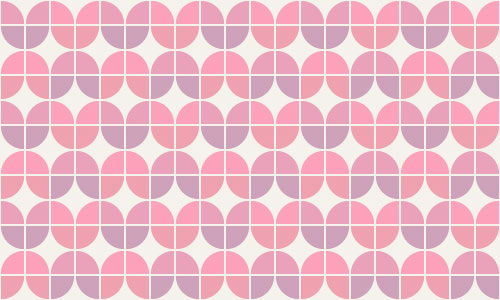
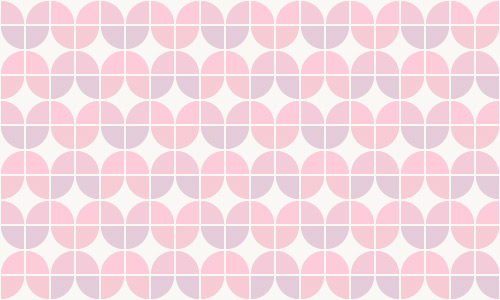
EDITED

diff --git a/styleguide.html b/styleguide.html
@@ -2,70 +2,66 @@
 <html>
   <head>
     <meta charset="utf-8">
-    <title>Style Guide Template</title>
+    <title>Tinytree Fondant Studio</title>
     <link href="css/styleguide.css" rel="stylesheet">
-    <link href='http://fonts.googleapis.com/css?family=Lato:100,400' rel='stylesheet' type='text/css'>
-    <link href='http://fonts.googleapis.com/css?family=Playball' rel='stylesheet' type='text/css'>
+    <link href="css/grid.css" rel="stylesheet">
+
+  
   </head>
   <body>
-    <h1>Tiny Tree Cake Factory Style Guide</h1>
+    <h1>Tinytree Style Guide</h1>
     <p>This is the title font.</p>
-    <nav>
-      Go to:
-      <a href="#buttons">Buttons</a>
-      <a href="#navis">Navigations</a>
-      <a href="#items">Items</a>
-      <a href="#items">Logo</a>
+    <section id="navigation">
+       <h2>Navigation Style</h2>
+      <h3>CSS selector:</h3>
+      <p>'nav'</p>
+      <h3>Sample code:</h3>
+      <code>&lt;nav&gt;&lt;div class="col-1of4"&gt;&lt;a href="#navigation"&gt; navigation&lt;/a&gt;&lt;/div&gt;&lt;/nav&gt;</code>
+      <h3>Rendered element:</h3>
+
+      <nav>
+      <div class="col-1of4">
+      <a href="#navigation" >navigation style</a>
+    </div>
+      <div class="col-1of4">
+      <a href="#buttons">buttons style</a>
+    </div>
+    <div class="col-1of4">
+      <a href="#items">items style</a>
+      </div>
+        <div class="col-1of4">
+      <a href="#logo">logo style</a>
+    </div>
     </nav>
+  </section>
     <!-- Try to ensure that each element has its own portion of the page -->
     <section id="buttons">
       <h2>Button Style</h2>
       <h3>CSS selector:</h3>
       <p>'a.button'</p>
       <h3>Sample code:</h3>
-      <code>&lt;a href="#" class="button"&gt; CAKES&lt;/a&gt;</code>
+      <code>&lt;a href="#" class="button"&gt; Add&lt;/a&gt;</code>
       <h3>Rendered element:</h3>
-      <a class="button" href="#">Buttons</a>
-    </section>
-    <section id="navis">
-      <h2>Navigation Style</h2>
-      <h3>CSS selector:</h3>
-      <p>'a.navis'</p>
-      <h3>Sample code:</h3>
-      <code>&lt;ul&gt;&lt;li&gt;&lt;a href="#" class="button"&gt; CAKES&lt;/a&gt;</code>
-      <h3>Rendered element:</h3>
-      <ul>
-        <li>
-            <a href="#">CAKES &#9662;</a>
-            <ul>
-                <li><a href="#">Wedding</a></li>
-                <li><a href="#">Specialty</a></li>
-                <li><a href="#">Customize</a></li>
-            </ul>
-        </li>
-        <li><a href="#">ABOUT</a></li>
-        <li><a href="#">CONTACT</a></li>
-
-    </ul>
+      <a class="button" href="#">Add</a>
     </section>
     <section id="items">
       <h2>Item Style</h2>
       <h3>CSS selector:</h3>
       <p>'a.items'</p>
       <h3>Sample code:</h3>
-      <code>&lt;ul&gt;&lt;li&gt;&lt;a href="#" class="button"&gt; CAKES&lt;/a&gt;</code>
+      <code>&lt;ul&gt;&lt;li&gt;&lt;a href="#" class="button"&gt; SWEET&lt;/a&gt;</code>
       <h3>Rendered element:</h3>
-      <a class="items" href="#">Customize</a>
+      <a class="items" href="#">Sweet</a>
     </section>
       <section id="logo">
       <h2>Logo</h2>
       <h3>CSS selector:</h3>
       <p>'a.logo'</p>
       <h3>Sample code:</h3>
-      <code>&lt;a href="#" class="logo"&gt; Jessie's Cake Factory&lt;/a&gt;</code>
+      <code>&lt;a href="#" class="logo"&gt; &lt;/a&gt;</code>
       <h3>Rendered element:</h3>
 
-      <a class="logo" href="#">Jessie's Cake Factory</a>
+      <a class="logo" href="#"></a>
     </section>
   </body>
 </html>

diff --git a/css/styleguide.css b/css/styleguide.css
@@ -1,15 +1,40 @@
 
-
-body {
-  font-family: 'Playball', cursive;
-  background-color: #f2e4c2;
+  body {
+ font-family: 'Lato', sans-serif;
   padding: 2rem;
-
+  background-image:url('BG.jpg');
+  color: #7d7d7d;
 }
+nav a, nav a:visited {
 
-nav p{
+  display: inline-block;
+  color: white;
+  padding: 1em;
+  font-size: 1.5em;
+  text-decoration: none;
+  -webkit-transition: background-color 0.5s;
+  transition: background-color 0.5s;
+  width: 100%;
+}
+nav{
   font-family: 'Lato', sans-serif;
+  font-size:0.5rem;
+  display: block;
+  background-color:#b2dfb0;
+  color:#000;
+  height:2.3rem;
 }
+nav a:hover, nav a:active, nav a:focus {
+  background-color: #7bc699;
+}
+nav .nohover a:hover, nav .nohover a:active, nav .nohover a:focus {
+  background-color:transparent;
+
+}
+a:visited{
+  color:#7d7d7d;
+}
+
 section {
   font-family: 'Lato', sans-serif;
   margin: 1em 0;
@@ -19,12 +44,12 @@ section {
 }
 
 section h3 {
-  color:#f37a59;
-
+  color:#7bc699;
 
 }
 section p {
   margin-top: 0;
+  color:#7d7d7d;
 }
 section code {
   background-color: #EEE;
@@ -35,21 +60,24 @@ a.button {
   display: inline-block;
   padding: 0.5em 0.75em;
   color: #FFF;
-  background-color: #7bc699;
+  background-color: #b2dfb0;
   text-decoration: none;
   -webkit-transition: background-color 0.25s ease-out;
   transition: background-color 0.25s ease-out;
 }
 a.button:hover, a.button:focus {
-  background-color: #19403c;
+  background-color: #7bc699;
 }
 
 a.items{
   font-family: 'Playball', cursive;
   display:inline-block;
-  background-color:#f2e4c2; 
-  color:#19403c;
+  padding-left:1em;
+  color:#FFF;
+  padding-right:1em;
+  background-color:#b2dfb0;
   text-decoration:none;
+  font-size:1.5rem;
 
 }
 a.items:hover, a.items:focus{
@@ -70,31 +98,3 @@ a.logo{
 }
 
 
-
-ul{
-        padding: 0;
-        list-style: none;
-    }
-    ul li{
-        float: left;
-        width: 100px;
-        text-align: center;
-        line-height: 21px;
-    }
-    ul li a{
-        display: block;
-        padding: 5px 10px;
-        color: #333;
-        background: #7bc699;
-        text-decoration: none;
-    }
-    ul li a:hover{
-        color: #FFF;
-        background: #f37a59;
-    }
-    ul li ul{
-        display: none;
-    }
-    ul li:hover ul{
-        display: block; /* display the dropdown */
-    }

diff --git a/index.html b/index.html
@@ -116,13 +116,14 @@
   <p></p>
 </div>
   <div class="col-2of10">
-   <input class="btn1 btn-default1" type="submit" name="submit" value="View More">
+    <a href="event.html">
+   <input class="btn1 btn-default1" type="submit" name="submit" value="View More"></a>
 </div>
   <div class="col-2of10">
   <p></p>
 </div>
   <div class="col-2of10">
-   <input class="btn1 btn-default1" type="submit" name="submit" value="Add to Cart">
+   <a href="shoppingcart.html"><input class="btn1 btn-default1" type="submit" name="submit" value="Add to Cart"></a>
 </div>
  
     

diff --git a/event.html b/event.html
@@ -114,13 +114,13 @@
   <p></p>
 </div>
   <div class="col-2of10">
-   <input class="btn1 btn-default1" type="submit" name="submit" value="View More">
+   <a href="event.html"><input class="btn1 btn-default1" type="submit" name="submit" value="View More"></a>
 </div>
   <div class="col-2of10">
   <p></p>
 </div>
   <div class="col-2of10">
-   <input class="btn1 btn-default1" type="submit" name="submit" value="Add to Cart">
+   <a href="shoppingcart.html"><input class="btn1 btn-default1" type="submit" name="submit" value="Add to Cart"></a>
 </div>
  
     

diff --git a/item1.html b/item1.html
@@ -145,8 +145,7 @@
             </label>
 
           </fieldset>
-
-          <input class="btn btn-default" type="submit" name="submit" value="Add">
+          <a href="shoppingcart.html"><input class="btn btn-default" type="submit" name="submit" value="Add"></a>
 
         </form>
 
